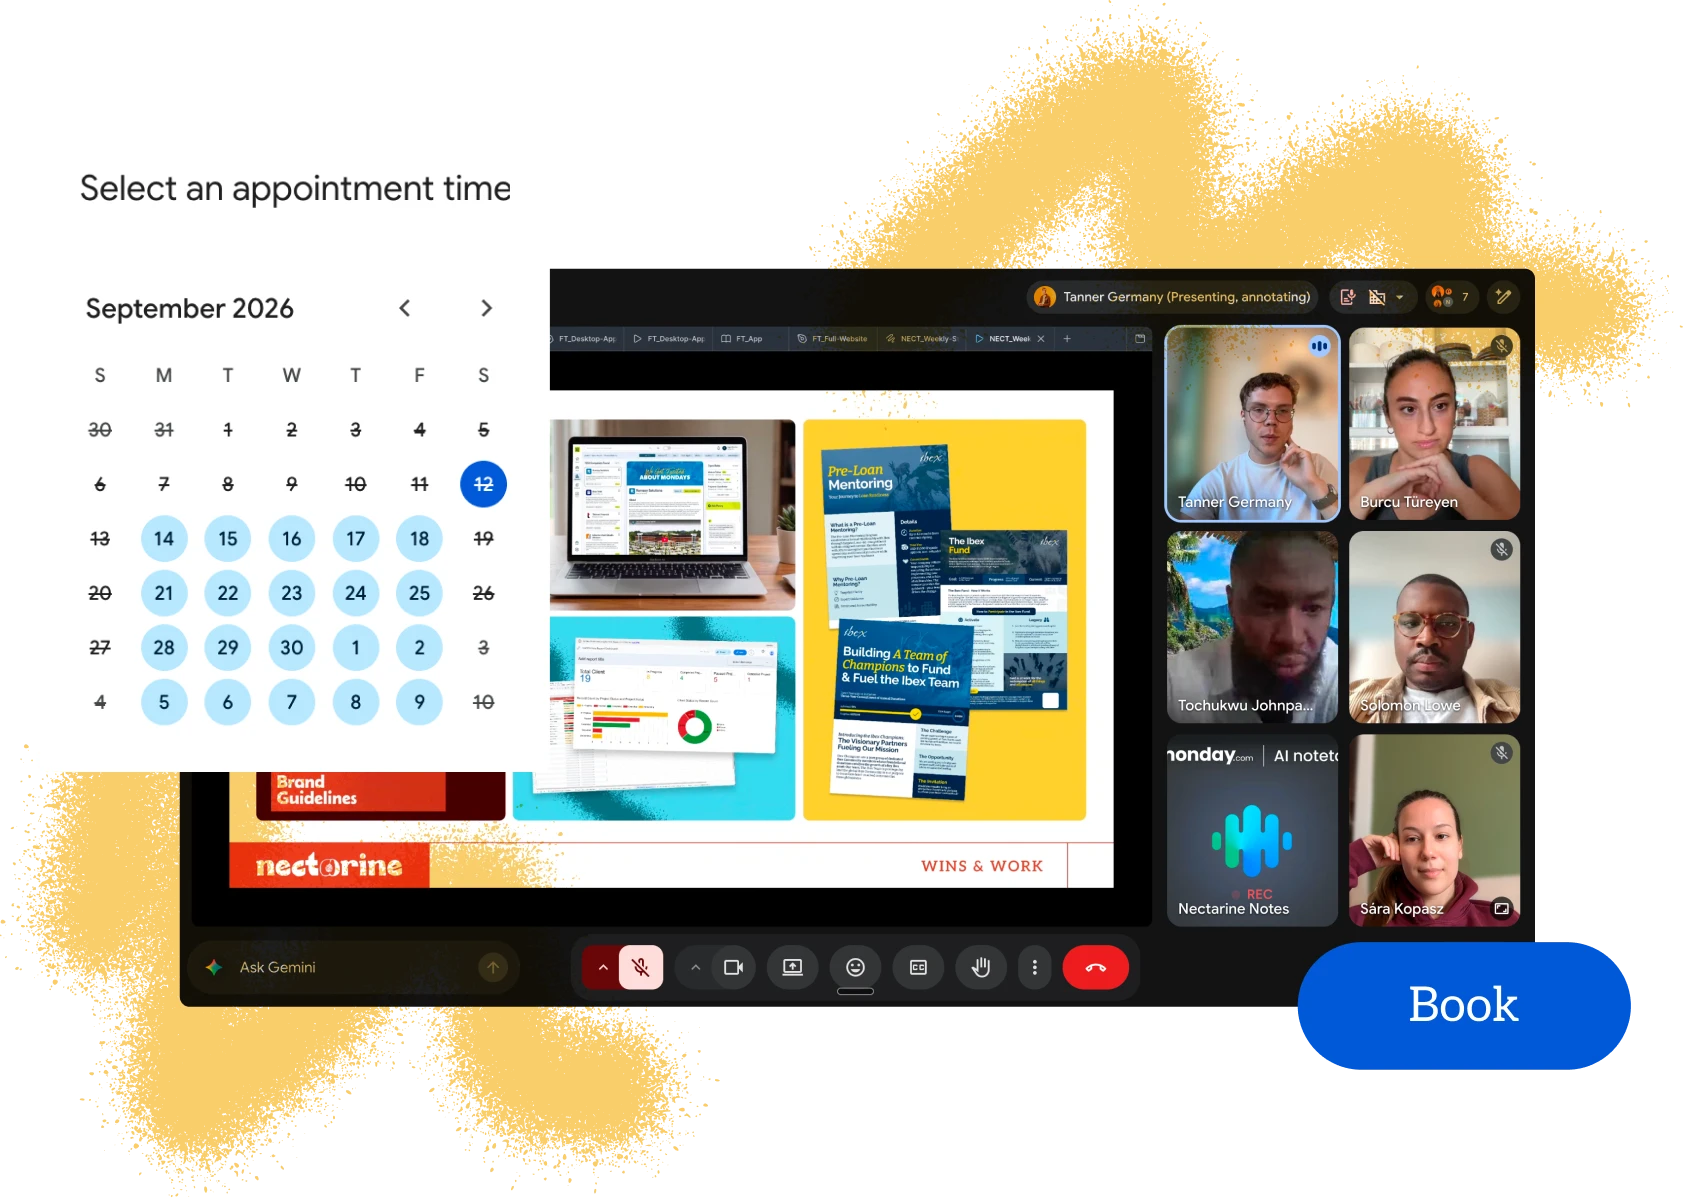
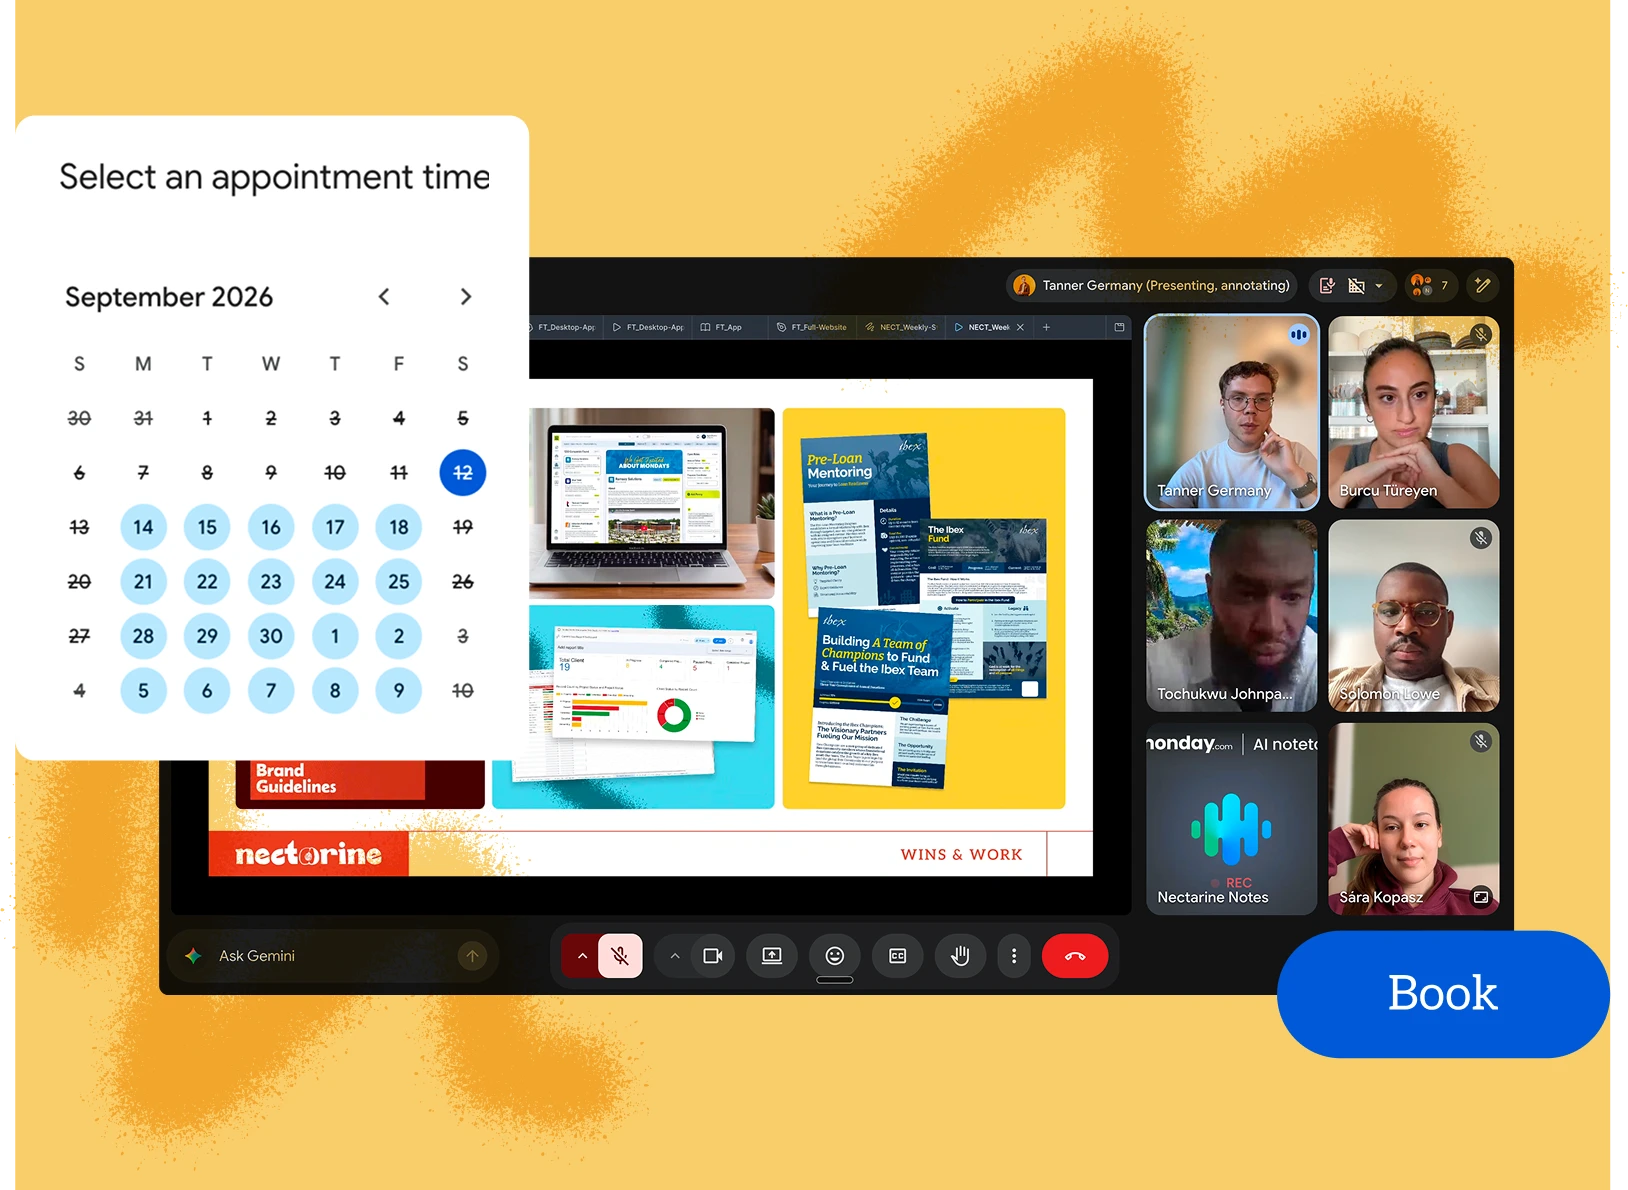
Style Contact page form for its red card, update booking graphic
- Add a variant prop to components/ContactForm.tsx ("dark" default,
  "light" for white text/borders) so the /contact page's form reads
  clearly on its red-orange card, without touching the form's
  appearance on the homepage/work page's yellow cards.
- Remove the stray dark hover outline on the form's Submit button.
- Swap in an updated version of the booking-calendar graphic on the
  Contact page's yellow card.

Claude-Session: https://claude.ai/code/session_01Phd5zrcCPb1bE4nj8qhhhM

diff --git a/components/ContactForm.tsx b/components/ContactForm.tsx
@@ -6,13 +6,25 @@ const WEB3FORMS_ACCESS_KEY = "5af858dd-01bf-4fa3-b7ab-a58d96368c63";
 
 type Status = "idle" | "sending" | "success" | "error";
 
-export default function ContactForm() {
+export default function ContactForm({ variant = "dark" }: { variant?: "dark" | "light" }) {
   const [status, setStatus] = useState<Status>("idle");
   const [hovered, setHovered] = useState(false);
   const nameRef = useRef<HTMLInputElement>(null);
   const emailRef = useRef<HTMLInputElement>(null);
   const subjectRef = useRef<HTMLInputElement>(null);
   const messageRef = useRef<HTMLTextAreaElement>(null);
+
+  const isLight = variant === "light";
+  const labelClass = isLight
+    ? "font-inter font-semibold text-[13px] text-[#fcf8f3]"
+    : "font-inter font-semibold text-[13px] text-[#380102]";
+  const fieldClass = isLight
+    ? "border border-[#fcf8f3] rounded-[12px] px-[14px] h-[48px] font-inter text-[14px] text-[#fcf8f3] placeholder-[#fcf8f3]/60 bg-transparent outline-none focus:ring-2 focus:ring-[#fcf8f3]/30"
+    : "border border-[#380102] rounded-[12px] px-[14px] h-[48px] font-inter text-[14px] text-[#380102] placeholder-[#380102]/45 bg-transparent outline-none focus:ring-2 focus:ring-[#380102]/20";
+  const textareaClass = isLight
+    ? "border border-[#fcf8f3] rounded-[12px] p-[14px] font-inter text-[14px] text-[#fcf8f3] placeholder-[#fcf8f3]/60 bg-transparent outline-none focus:ring-2 focus:ring-[#fcf8f3]/30 resize-none"
+    : "border border-[#380102] rounded-[12px] p-[14px] font-inter text-[14px] text-[#380102] placeholder-[#380102]/45 bg-transparent outline-none focus:ring-2 focus:ring-[#380102]/20 resize-none";
+  const statusTextClass = isLight ? "font-inter text-[14px] text-[#fcf8f3] text-center" : "font-inter text-[14px] text-[#380102] text-center";
 
   const handleSubmit = async (e: React.FormEvent) => {
     e.preventDefault();
@@ -52,42 +64,42 @@ export default function ContactForm() {
     <form onSubmit={handleSubmit} className="flex-1 flex flex-col gap-[20px]">
       <div className="flex flex-col gap-[16px]">
         <div className="flex flex-col gap-[8px]">
-          <label className="font-inter font-semibold text-[13px] text-[#380102]">Name</label>
+          <label className={labelClass}>Name</label>
           <input
             ref={nameRef}
             type="text"
             required
             placeholder="Jane Doe"
-            className="border border-[#380102] rounded-[12px] px-[14px] h-[48px] font-inter text-[14px] text-[#380102] placeholder-[#380102]/45 bg-transparent outline-none focus:ring-2 focus:ring-[#380102]/20"
+            className={fieldClass}
           />
         </div>
         <div className="flex flex-col gap-[8px]">
-          <label className="font-inter font-semibold text-[13px] text-[#380102]">Email</label>
+          <label className={labelClass}>Email</label>
           <input
             ref={emailRef}
             type="email"
             required
             placeholder="jane@company.com"
-            className="border border-[#380102] rounded-[12px] px-[14px] h-[48px] font-inter text-[14px] text-[#380102] placeholder-[#380102]/45 bg-transparent outline-none focus:ring-2 focus:ring-[#380102]/20"
+            className={fieldClass}
           />
         </div>
         <div className="flex flex-col gap-[8px]">
-          <label className="font-inter font-semibold text-[13px] text-[#380102]">Subject</label>
+          <label className={labelClass}>Subject</label>
           <input
             ref={subjectRef}
             type="text"
             placeholder="General inquiry"
-            className="border border-[#380102] rounded-[12px] px-[14px] h-[48px] font-inter text-[14px] text-[#380102] placeholder-[#380102]/45 bg-transparent outline-none focus:ring-2 focus:ring-[#380102]/20"
+            className={fieldClass}
           />
         </div>
         <div className="flex flex-col gap-[8px]">
-          <label className="font-inter font-semibold text-[13px] text-[#380102]">Message</label>
+          <label className={labelClass}>Message</label>
           <textarea
             ref={messageRef}
             required
             placeholder="How can we help?"
             rows={6}
-            className="border border-[#380102] rounded-[12px] p-[14px] font-inter text-[14px] text-[#380102] placeholder-[#380102]/45 bg-transparent outline-none focus:ring-2 focus:ring-[#380102]/20 resize-none"
+            className={textareaClass}
           />
         </div>
       </div>
@@ -96,7 +108,7 @@ export default function ContactForm() {
         disabled={status === "sending"}
         onMouseEnter={() => setHovered(true)}
         onMouseLeave={() => setHovered(false)}
-        className="relative overflow-hidden uppercase w-full bg-[#380102] rounded-[12px] py-[15px] font-bel text-[18px] text-[#f9ce6a] disabled:opacity-60 disabled:cursor-not-allowed transition-opacity hover:outline hover:outline-2 hover:outline-offset-2 hover:outline-[#380102]"
+        className="relative overflow-hidden uppercase w-full bg-[#380102] rounded-[12px] py-[15px] font-bel text-[18px] text-[#f9ce6a] disabled:opacity-60 disabled:cursor-not-allowed transition-opacity"
         style={{ letterSpacing: "0.1em" }}
       >
         <span
@@ -108,7 +120,7 @@ export default function ContactForm() {
         </span>
       </button>
       {status === "success" && (
-        <p className="font-inter text-[14px] text-[#380102] text-center">
+        <p className={statusTextClass}>
           Thanks — we&apos;ll get back to you within 1-2 business days.
         </p>
       )}

diff --git a/app/contact/page.tsx b/app/contact/page.tsx
@@ -43,7 +43,7 @@ export default function ContactPage() {
 
             {/* Form card */}
             <div className="bg-[#d7432a] rounded-[25px] p-6 lg:p-[40px] flex flex-col">
-              <ContactForm />
+              <ContactForm variant="light" />
             </div>
           </div>
 

diff --git a/SITE.md b/SITE.md
@@ -24,7 +24,7 @@
 - **Audit Complete** (`/audit-complete`) — A thank-you page for after someone finishes the Brand Audit tool: "Thank you for completing the brand alignment audit. Our team will be in touch shortly with your results!", then a dark CTA card ("Interested in more?" / headline / **Schedule a Free Call** button linking to your booking calendar / **Learn What We Do** button linking to /what-we-do / a "Run Another Audit" link back to /audit). Not linked from anywhere on the site yet — it's meant to be the page the external Brand Audit tool redirects to once someone finishes it, so whoever configured that tool needs to point it here. To edit the wording or button destinations, edit `app/audit-complete/page.tsx`.
 - **Blog** (`/blog`) — Currently hidden from the main menu again (still works if visited directly at /blog — see Recent Changes). One post is pinned as the "Featured" hero at the top (full excerpt preview, big cover). Below that: a live search box and category filter pills (Branding, Copywriting, Web Design, Strategy, Case Studies), then a grid of every other post — search and filters apply instantly, no page reload. See "Blog Data" below for how to add/edit posts.
 - **Individual Blog Post** (`/blog/[slug]`) — Category, title, date, author, and read time (auto-calculated from word count) at the top, then the full post body, then a "More from the Blog" strip linking to 3 other posts.
-- **Contact** (`/contact`) — Standalone contact page: a centered headline, then two side-by-side cards (stacked on mobile) — a yellow card with a "book a call" graphic and a "Book a Strategy Call" button that opens the Booking Modal popup (see "Booking Modal" below), and a red-orange card with the contact form. A direct "hello@nectarine.ink" email link sits below both cards for people who'd rather not fill out a form. To change the text or swap the graphic, edit `app/contact/page.tsx` — the graphic itself lives at `.shipstudio/assets/contact-booking-graphic.png`.
+- **Contact** (`/contact`) — Standalone contact page: a centered headline, then two side-by-side cards (stacked on mobile) — a yellow card with a "book a call" graphic and a "Book a Strategy Call" button that opens the Booking Modal popup (see "Booking Modal" below), and a red-orange card with the contact form (using the form's white-text "light" styling — see "Contact Form" below). A direct "hello@nectarine.ink" email link sits below both cards for people who'd rather not fill out a form. To change the text or swap the graphic, edit `app/contact/page.tsx` — the graphic itself lives at `.shipstudio/assets/contact-booking-graphic.png`.
 
 ## Blog Data
 
@@ -47,6 +47,7 @@ All posts live in `data/content/blog.ts` as a list — no CMS, just edit the fil
   - **Necessary** — always on, can't be turned off. Covers things required for the site to work at all, like remembering this cookie choice itself.
   - **Analytics** — on/off toggle. Controls whether Google Analytics loads for that visitor.
   - **Advertising** — on/off toggle. Controls whether the Google Ads conversion tag loads for that visitor.
+- **Contact Form** (`components/ContactForm.tsx`) — The form used on the homepage, /work, and /contact. Takes a `variant` prop: `"dark"` (the default — dark maroon labels/borders/text, for the yellow cards it sits in on the homepage and /work) or `"light"` (white/cream labels, borders, and input text, used by the /contact page's red-orange card so the form reads clearly against that background).
 - **Google Tags** (`components/GoogleTags.tsx`) — Loads Google's tracking script (`gtag.js`) once and configures both Google Analytics (ID `G-V3LK17ZGFC`) and Google Ads conversion tracking (ID `AW-18414948107`), on every page load, for every visitor — see "Cookie Consent" below for why it always loads instead of waiting for a cookie choice. To change either ID, edit the two constants at the top of this file.
 - **Booking Modal** (`components/BookingModal.tsx`) — A popup ("Schedule a Call") that embeds your Google Calendar appointment-scheduling widget directly on the page, instead of sending visitors away to a separate calendar site. Every "schedule a call"-type button site-wide now opens this popup rather than navigating to the old Google Calendar link. To change the calendar itself, replace the `BOOKING_IFRAME_SRC` link at the top of the file with a new embed link from Google Calendar's "Sharing settings" (Appointment schedule → booking page → Share → embed code).
   - On pages that can stay interactive (homepage, /what-we-do), the trigger buttons hold their own open/closed state and render `<BookingModal>` directly.
@@ -282,6 +283,7 @@ Service copy lives in `data/content/services.ts`. Each service has a `label` (bu
 - **2026-09-12:** Added every page to the main menu — "Our Work," "What We Do," "Workshops & Audits," "Blog," and "Audit Tool" all now show up when you tap the hamburger menu, so you can click through and see what's live on each one. (Left out `/homepage-test` — that's an unfinished draft page, not linked anywhere, not a real page of the site.) To hide any of these again later, remove its entry from the `mainLinks` list at the top of `components/Navbar.tsx`.
 - **2026-09-12:** Every "schedule a call" button site-wide (homepage's "Book a Strategy Call," "Schedule an Intro Call," and "Learn More" buttons; the Design category's CTA on /what-we-do; and the "Schedule a Free Call" button on /audit-complete) now opens a popup with your Google Calendar booking widget embedded directly on the page, instead of sending visitors away to a separate Google Calendar tab. Added `components/BookingModal.tsx` (the popup itself) and `components/ScheduleCallButton.tsx` (a ready-made trigger button for pages like /audit-complete). See "Booking Modal" above for how to swap in a different calendar link later.
 - **2026-09-12:** Redesigned the Contact page to match a new reference design — a centered headline above two side-by-side cards: a yellow card with a booking-calendar graphic and a "Book a Strategy Call" button (opens the same Booking Modal popup as everywhere else on the site), and a red-orange card with the contact form. The "prefer email" link moved to a small line below both cards.
+- **2026-09-12:** Switched the Contact page's form to white text and white input outlines (so it reads clearly on its red-orange card) and removed a stray dark outline that flashed around the Submit button on hover. Added a reusable `variant` option to `components/ContactForm.tsx` so this only changed the /contact page — the same form still shows its original dark maroon text/borders on the homepage and /work, where it sits on a yellow card. Also swapped in an updated version of the booking-calendar graphic on the same card.
 
 ## How to Customize
 
